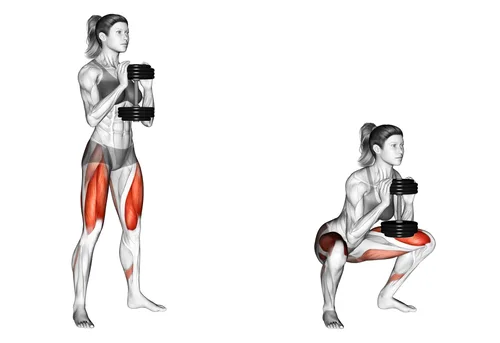
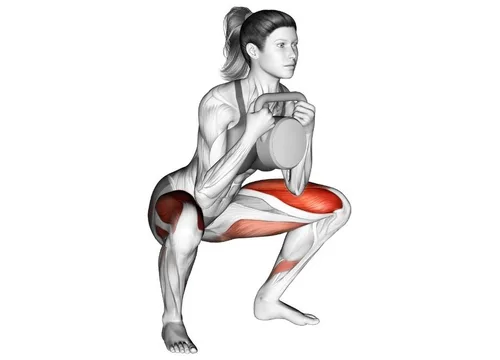
Alle 12 Kraftuebungen mit einheitlich zugeschnittenen Fotos versehen

Changed region(s): [[0.12, 0.0, 0.87, 0.9913]]

diff --git a/workouts-data.js b/workouts-data.js
@@ -8,16 +8,16 @@ const workouts = [
     exercises: [
       { name: "Goblet Squat", icon: "goblet-squat", img: "images/goblet-squat.webp", sets: "2 × 10-12" },
       { name: "Glute Bridge einbeinig", icon: "glute-bridge", img: "images/glute-bridge.webp", sets: "2 × 12/Seite" },
-      { name: "Ausfallschritt (statisch)", icon: "lunge-static", sets: "2 × 8-10/Seite" },
-      { name: "Rumänisches Kreuzheben (leicht)", icon: "rdl", sets: "2 × 10" },
-      { name: "Clamshells", icon: "clamshell", sets: "2 × 15/Seite" },
-      { name: "Side-Lying Leg Raise", icon: "side-leg-raise", sets: "2 × 12-15/Seite" },
-      { name: "Banded Lateral Walk (Monster Walk)", icon: "lateral-walk", sets: "2 × 10 Schritte/Seite" },
-      { name: "Plank", icon: "plank", sets: "2 × 20-30 Sek." },
-      { name: "Side Plank", icon: "side-plank", sets: "2 × 15-20 Sek./Seite" },
-      { name: "Dead Bug", icon: "dead-bug", sets: "2 × 10/Seite" },
-      { name: "Rudern (Band oder Kurzhantel)", icon: "row-band", sets: "2 × 10-12" },
-      { name: "Liegestütz auf Knien", icon: "pushup-knee", sets: "2 × 8-12" }
+      { name: "Ausfallschritt (statisch)", icon: "lunge-static", img: "images/lunge-static.webp", sets: "2 × 8-10/Seite" },
+      { name: "Rumänisches Kreuzheben (leicht)", icon: "rdl", img: "images/rdl.webp", sets: "2 × 10" },
+      { name: "Clamshells", icon: "clamshell", img: "images/clamshell.webp", sets: "2 × 15/Seite" },
+      { name: "Side-Lying Leg Raise", icon: "side-leg-raise", img: "images/side-leg-raise.webp", sets: "2 × 12-15/Seite" },
+      { name: "Banded Lateral Walk (Monster Walk)", icon: "lateral-walk", img: "images/lateral-walk.webp", sets: "2 × 10 Schritte/Seite" },
+      { name: "Plank", icon: "plank", img: "images/plank.webp", sets: "2 × 20-30 Sek." },
+      { name: "Side Plank", icon: "side-plank", img: "images/side-plank.webp", sets: "2 × 15-20 Sek./Seite" },
+      { name: "Dead Bug", icon: "dead-bug", img: "images/dead-bug.webp", sets: "2 × 10/Seite" },
+      { name: "Rudern (Band oder Kurzhantel)", icon: "row-band", img: "images/row-band.webp", sets: "2 × 10-12" },
+      { name: "Liegestütz auf Knien", icon: "pushup-knee", img: "images/pushup-knee.webp", sets: "2 × 8-12" }
     ]
   },
   {

diff --git a/index.html b/index.html
@@ -4,7 +4,7 @@
 <meta charset="UTF-8">
 <meta name="viewport" content="width=device-width, initial-scale=1.0">
 <title>Anna's Fitness Dashboard</title>
-<link rel="stylesheet" href="style.css?v=1786962032">
+<link rel="stylesheet" href="style.css?v=1786971319">
 </head>
 <body>
 
@@ -36,11 +36,11 @@
   <p>Zuletzt aktualisiert von Claude</p>
 </footer>
 
-<script src="icons.js?v=1786962032"></script>
-<script src="exercise-icons.js?v=1786962032"></script>
-<script src="type-config.js?v=1786962032"></script>
-<script src="workouts-data.js?v=1786962032"></script>
-<script src="supplements-data.js?v=1786962032"></script>
-<script src="script.js?v=1786962032"></script>
+<script src="icons.js?v=1786971319"></script>
+<script src="exercise-icons.js?v=1786971319"></script>
+<script src="type-config.js?v=1786971319"></script>
+<script src="workouts-data.js?v=1786971319"></script>
+<script src="supplements-data.js?v=1786971319"></script>
+<script src="script.js?v=1786971319"></script>
 </body>
 </html>
